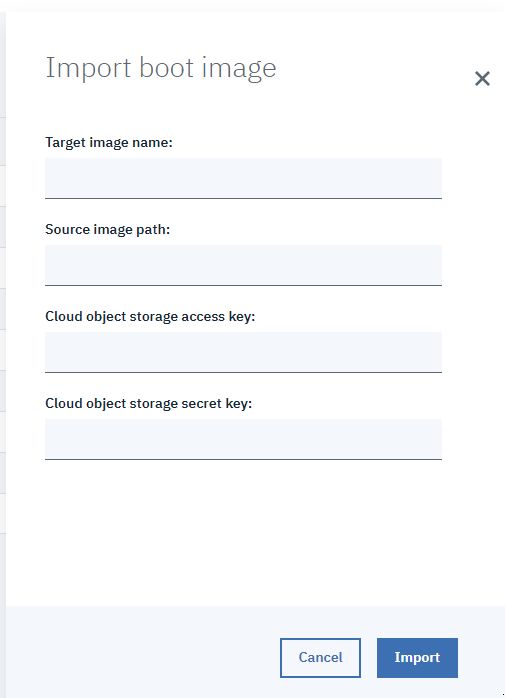
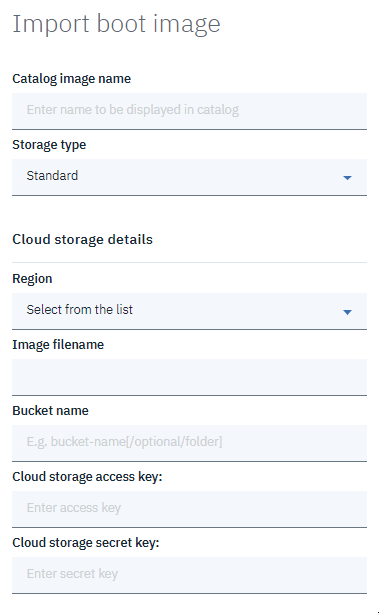
updating custom boot volume information

diff --git a/configuring-custom-image.md b/configuring-custom-image.md
@@ -102,28 +102,29 @@ To view your credential information, such as your secret and access keys, click 
 ## Uploading a custom boot image
 {: #cci-uploading}
 
-You must [Create a Power Systems Virtual Server service](/docs/infrastructure/power-iaas?topic=power-iaas-creating-power-virtual-server) before you can upload a custom image.
+To use a custom boot image in a {{site.data.keyword.powerSys_notm}} instance, complete the following steps:
 
-1. Before you create a new {{site.data.keyword.powerSys_notm}} instance, you can import a custom image by clicking the **Custom Image** tile under **Boot Volume**.
+1. Before you create a new {{site.data.keyword.powerSys_notm}} instance, go to the **Boot images** menu and click **Import**.
 
-  The **Source image path** field supports the following formats: _.ova_, _.ova.gz_, _.tar_, _.tar.gz_ and _.tgz_.
+  The **Image file name** field supports the following formats: _.ova_, _.ova.gz_, _.tar_, _.tar.gz_ and _.tgz_.
   {: important}
 
-  ![Importing a custom image](./images/console-create-custom-image.png "Importing a custom image"){: caption="Figure 7. Importing a custom image" caption-side="bottom"}
-
-1. You can also choose to import a boot image from the services **Boot images** menu by clicking **Import**.
-
-  ![Importing a custom image in the boot images menu](./images/console-boot-images.png "Importing a custom image in the boot images menu"){: caption="Figure 8. Importing a custom image in the boot images menu" caption-side="bottom"}
+    ![Importing a custom image in the boot images menu](./images/console-boot-image-import.png "Importing a custom image in the boot images menu"){: caption="Figure 9. Importing a custom image in the boot images menu" caption-side="bottom"}
 
 1. After you click **Import**, enter all of the required information.
 
-  ![Importing a custom image in the boot images menu](./images/console-boot-image-import.png "Importing a custom image in the boot images menu"){: caption="Figure 9. Importing a custom image in the boot images menu" caption-side="bottom"}
+    ![Importing a custom image in the boot images menu](./images/console-boot-image-fields.png "Importing a custom image in the boot images menu"){: caption="Figure 8. Importing a custom image in the boot images menu" caption-side="bottom"}
+
+1. When you provision a new {{site.data.keyword.powerSys_notm}} instance, your bustom boot image appears under the **Boot volume** section.
 
 Refer to the following table to complete the necessary fields to create a custom image:
 
 | Field | Description |
 | ------| ------------|
+| Catalog image name | Enter the name you want displayed in your catalog.|
+| Storage type | Select whether you want **Standard** or **SSD** for the storage type.|
+| Region | Select either **us-east** or **us-south** for the region.|
+| Image file name | Enter the fully qualified path for the image file. The fully qualified path must be in this format, `endpoint/bucket_name/file_name`. You must use the private endpoint domain. For example, `s3.private.us-east.cloud-object-storage.appdomain.cloud/power-iaasprod-images-bucket/Aix_7200-03-02-1846_cldrdy_112018.gz`. You can identify the endpoint domain, bucket name, and file name by selecting **Menu icon ![Menu icon](../icons/icon_hamburger.svg "Menu icon") > Resource list > Storage > Cloud Storage Object**.
 | Cloud Object Storage bucket name | To identity your bucket name, select **Menu icon ![Menu icon](../icons/icon_hamburger.svg "Menu icon") > Resource list > Storage > Cloud Storage Object name > Buckets**. |
-| Cloud Object Storage access key | To identify your access key, select **Menu icon ![Menu icon](../icons/icon_hamburger.svg "Menu icon") > Resource list > Storage > Cloud Storage Object name > Service credentials > View credentials**. Copy the `access_key_id` value and past it into this field. |
-| Cloud Object Storage secret key | To identify your secret key, select **Menu icon ![Menu icon](../icons/icon_hamburger.svg "Menu icon") > Resource list > Storage > Cloud Storage Object name > Service credentials > View credentials**. Copy the `secret_access_key` value and paste it into this field. |
-| Image Path | Enter the fully qualified path for the image file. The fully qualified path must be in this format, `endpoint/bucket_name/file_name`. You must use the private endpoint domain. For example, `s3.private.us-east.cloud-object-storage.appdomain.cloud/power-iaasprod-images-bucket/Aix_7200-03-02-1846_cldrdy_112018.gz`. You can identify the endpoint domain, bucket name, and file name by selecting **Menu icon ![Menu icon](../icons/icon_hamburger.svg "Menu icon") > Resource list > Storage > Cloud Storage Object**.
+| Cloud Object Storage access key | To identify your access key, select **Menu icon ![Menu icon](../icons/icon_hamburger.svg "Menu icon") > Resource list > Storage > Cloud Storage Object name > Service credentials > View credentials**. Copy the `access_key_id` value and past it into this field.|
+| Cloud Object Storage secret key | To identify your secret key, select **Menu icon ![Menu icon](../icons/icon_hamburger.svg "Menu icon") > Resource list > Storage > Cloud Storage Object name > Service credentials > View credentials**. Copy the `secret_access_key` value and paste it into this field.|

diff --git a/creating-power-virtual-server.md b/creating-power-virtual-server.md
@@ -65,7 +65,7 @@ To create and configure a {{site.data.keyword.powerSysFull}}, complete the follo
 
     3. Finally, complete the **Boot volume**, **Attached volumes**, and **Network interfaces** fields as instructed by your organization. When you select **Boot volume**, the IBM Cloud console allows you to select certain stock images and the list of images in your catalog. To see your boot images, go to the **Boot images** tab after provisioning the instance.
 
-      When using an AIX stock image as the boot volume, a console session is required for the initial setting of the root user password. Without completing this step, SHH login appears as being _disabled_. For more information, see [How to create a new AIX VM with SSH keys for root login](/docs/infrastructure/power-iaas?topic=power-iaas-create-vm).
+      When using an AIX stock image as the boot volume, a console session is required for the initial setting of the root user password. Without completing this step, SSH login appears as being _disabled_. For more information, see [How to create a new AIX VM with SSH keys for root login](/docs/infrastructure/power-iaas?topic=power-iaas-create-vm).
       {: important}
 
       ![Defining your volumes and network interfaces](./images/console-volume-network.png "Defining your volumes and network interfaces"){: caption="Figure 8. Defining your volumes and network interfaces" caption-side="bottom"}
@@ -118,9 +118,9 @@ If you are concerned about performance issues, you can select <strong>Dedicated 
 </tr>
 <tr>
 <td>Create Boot Volume</td>
-<td>Select a version of the IBM-provided AIX or IBM i operating system stock image or select a custom AIX or IBM i operating system image that you previously deployed on-premises. If you want to bring your own custom image, you must use a supported technology level of the AIX or IBM i operating system image for the Power Systems hardware that you selected in the <strong>Machine Type</strong> field. For more information, see <a href="/docs/infrastructure/power-iaas?topic=power-iaas-deploying-custom-image">Deploying a custom image within a Power Systems Virtual Server</a>.
+<td>Select a version of the IBM-provided AIX or IBM i operating system stock image. If you want to bring your own custom image, you must use a supported technology level of the AIX or IBM i operating system image for the Power Systems hardware that you selected in the <strong>Machine Type</strong> field. For more information, see <a href="/docs/infrastructure/power-iaas?topic=power-iaas-deploying-custom-image">Deploying a custom image within a Power Systems Virtual Server</a>.
 
-<p><strong>Important:</strong> When you use an AIX stock image as the boot volume, a console session is required for the initial setting of the root user password. Without completing this step, SHH login as 'root' appears as being _disabled_.</p>
+<p><strong>Important:</strong> When you use an AIX stock image as the boot volume, a console session is required for the initial setting of the root user password. Without completing this step, SSH login as 'root' appears as being _disabled_.</p>
 
 <p>For IBM i system licensing information, see <a href="/docs/infrastructure/power-iaas?topic=power-iaas-ibmi-lpps">IBM i License Program Products (LPP) and Operating System (OS) feature bundles</a>.</p>
 </td>
